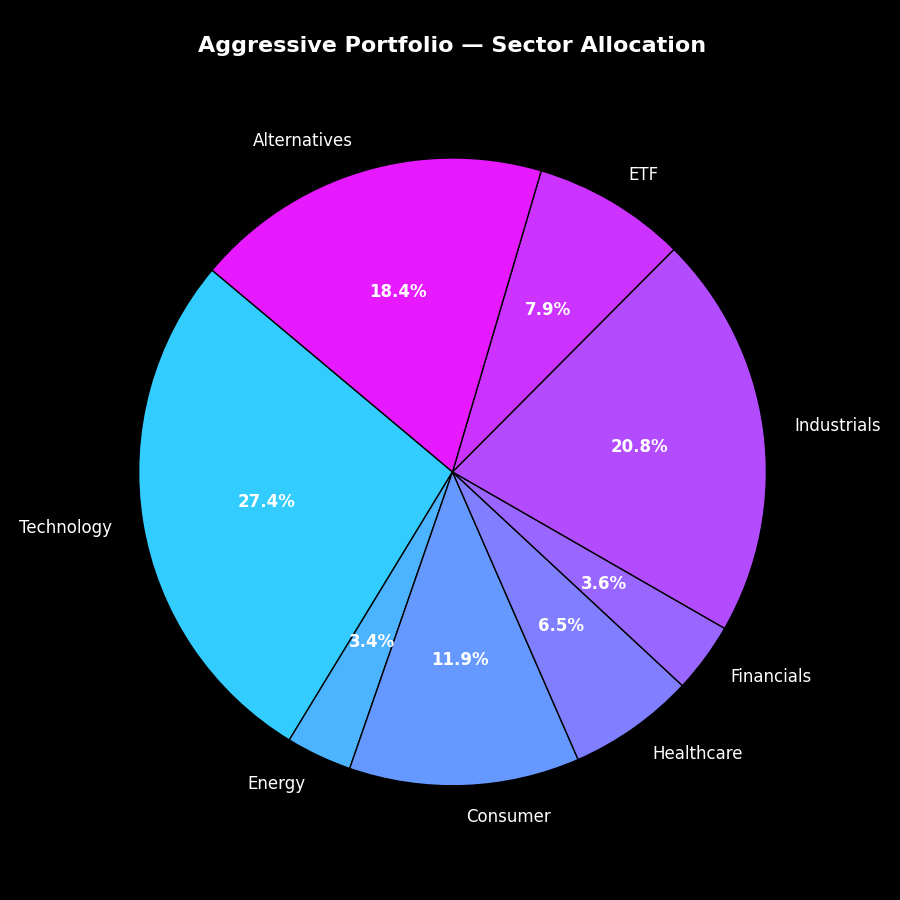
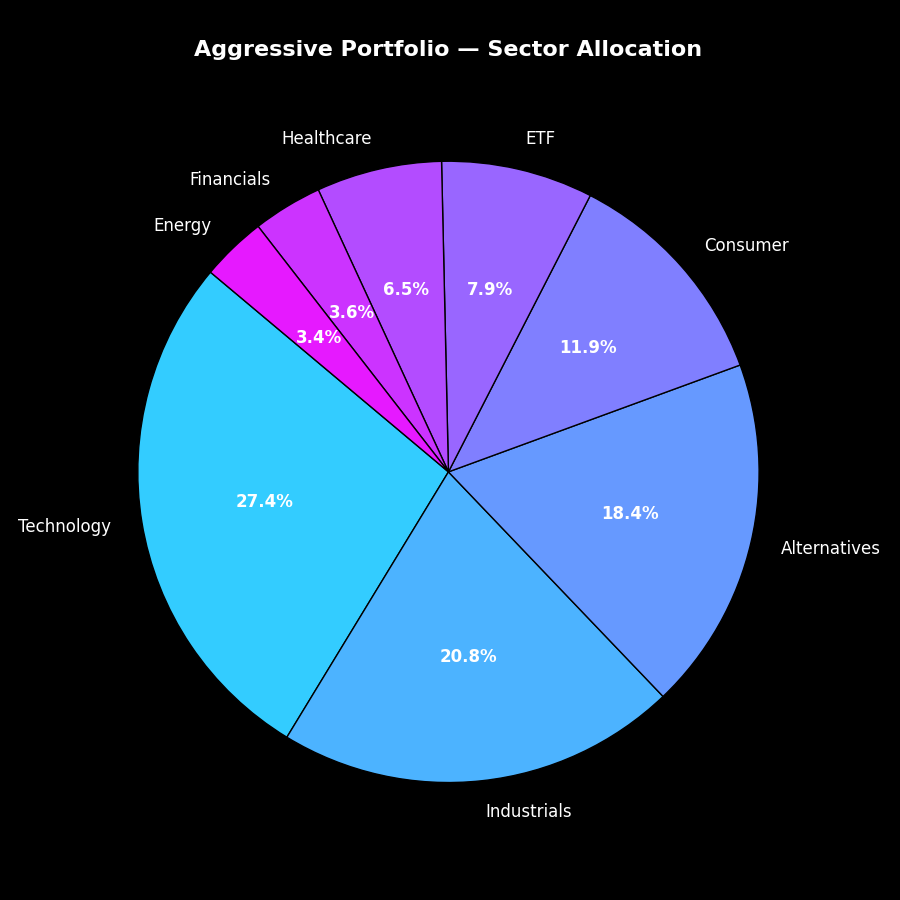
Adjusted spacing. Changed multiple variants' names for better readability

diff --git a/main.py b/main.py
@@ -7,7 +7,8 @@ import os
 os.makedirs("plots", exist_ok=True)
 plt.style.use('dark_background')
 
-# --- Tickers from diverse sectors ---
+# Tickers from diverse sectors
+
 tickers = [
     'AAPL', 'MSFT', 'GOOGL', 'NVDA',
     'XOM', 'CVX', 'KO', 'PG',
@@ -27,30 +28,32 @@ sector_map = {
     'GLD': 'Alternatives', 'BTC-USD': 'Alternatives'
 }
 
-# --- Download historical data ---
+# Download historical data
+
 batches = [tickers[i:i + 4] for i in range(0, len(tickers), 4)]
 all_data = []
 
 for batch in batches:
-    df = yf.download(batch, start='2019-01-01', end='2024-12-31', auto_adjust=True)
-    close_prices = df['Close'] if isinstance(df.columns, pd.MultiIndex) else pd.DataFrame(df['Close'])
+    batch_data = yf.download(batch, start='2019-01-01', end='2024-12-31', auto_adjust=True)
+    close_prices = batch_data['Close'] if isinstance(batch_data.columns, pd.MultiIndex) else pd.DataFrame(batch_data['Close'])
     all_data.append(close_prices)
 
-data = pd.concat(all_data, axis=1)
-data = data.ffill().dropna(axis=1, thresh=len(data) * 0.95)
+price_data = pd.concat(all_data, axis=1)
+price_data = price_data.ffill().dropna(axis=1, thresh=len(price_data) * 0.95)
 
-returns = data.pct_change().dropna()
+returns = price_data.pct_change().dropna()
 mean_returns = returns.mean() * 252
 cov_matrix = returns.cov() * 252
 
-# --- Correlation Heatmap ---
+# Correlation Heatmap
+
 correlation_matrix = returns.corr()
 
 plt.figure(figsize=(14, 12))
 sns.heatmap(
     correlation_matrix,
     annot=True,
-    cmap='coolwarm',  # diverging: blue = low correlation, red = high
+    cmap='coolwarm',
     fmt=".2f",
     linewidths=0.5,
     square=True,
@@ -64,51 +67,52 @@ plt.tight_layout()
 plt.savefig("plots/asset_correlation_heatmap_dark.png", facecolor='black')
 plt.show()
 
+# Define constraints
 
-# --- Define constraints ---
 constraints = {
     'unconstrained': {'asset_max': 1.00, 'sector_max': 1.00, 'alt_max': 1.00},
     'conservative': {'asset_max': 0.15, 'sector_max': 0.25, 'alt_max': 0.10},
     'aggressive': {'asset_max': 0.25, 'sector_max': 0.35, 'alt_max': 0.20}
 }
 
-# --- Efficient Frontier simulation ---
+# Efficient Frontier simulation
+
 num_portfolios = 10000
-results_all = {}
-weights_all = {}
+all_metrics_by_strategy = {}
+all_weights_by_strategy = {}
 np.random.seed(33)
 
 mean_arr = mean_returns.values
 cov_arr = cov_matrix.values
-asset_names = data.columns.tolist()
+asset_names = price_data.columns.tolist()
 
-for label, limit in constraints.items():
-    results = []
-    weights_record = []
+for strategy, constraint in constraints.items():
+    simulation_metrics = []
+    portfolio_weights = []
 
     for _ in range(num_portfolios):
         valid = False
         attempts = 0
 
         while not valid and attempts < 1000:
-            w = np.random.random(len(asset_names))
-            w /= w.sum()
-            w_series = pd.Series(w, index=asset_names)
+            random_weights = np.random.random(len(asset_names))
+            random_weights /= random_weights.sum()
+            weights_series = pd.Series(random_weights, index=asset_names)
 
-            if (w_series > limit['asset_max']).any():
+            if (weights_series > constraint['asset_max']).any():
                 attempts += 1
                 continue
 
-            sector_w = {}
-            for ticker, weight in w_series.items():
+            sector_weights = {}
+            for ticker, weight in weights_series.items():
                 sector = sector_map[ticker]
-                sector_w[sector] = sector_w.get(sector, 0) + weight
+                sector_weights[sector] = sector_weights.get(sector, 0) + weight
 
-            if any(val > limit['sector_max'] for val in sector_w.values()):
+            if any(val > constraint['sector_max'] for val in sector_weights.values()):
                 attempts += 1
                 continue
 
-            if sector_w.get('Alternatives', 0) > limit['alt_max']:
+            if sector_weights.get('Alternatives', 0) > constraint['alt_max']:
                 attempts += 1
                 continue
 
@@ -117,28 +121,29 @@ for label, limit in constraints.items():
         if not valid:
             continue
 
-        port_return = np.dot(w, mean_arr)
-        port_vol = np.sqrt(np.dot(w.T, np.dot(cov_arr, w)))
-        sharpe = port_return / port_vol
+        expected_return = np.dot(random_weights, mean_arr)
+        risk = np.sqrt(np.dot(random_weights.T, np.dot(cov_arr, random_weights)))
+        sharpe_ratio = expected_return / risk if risk > 0 else 0
 
-        results.append((port_return, port_vol, sharpe))
-        weights_record.append(w)
+        simulation_metrics.append((expected_return, risk, sharpe_ratio))
+        portfolio_weights.append(random_weights)
 
-    df = pd.DataFrame(results, columns=['Return', 'Volatility', 'Sharpe Ratio'])
-    w_df = pd.DataFrame(weights_record, columns=asset_names)
+    strategy_results_df = pd.DataFrame(simulation_metrics, columns=['Return', 'Volatility', 'Sharpe Ratio'])
+    portfolio_weights_df = pd.DataFrame(portfolio_weights, columns=asset_names)
 
-    results_all[label] = df
-    weights_all[label] = w_df
+    all_metrics_by_strategy[strategy] = strategy_results_df
+    all_weights_by_strategy[strategy] = portfolio_weights_df
 
-# --- Plot Efficient Frontier Comparison ---
+# Plot Efficient Frontier Comparison
+
 plt.figure(figsize=(12, 8))
 colors = {'unconstrained': '#00BFFF', 'conservative': '#8A2BE2', 'aggressive': '#7FFFD4'}
 
-for label, df in results_all.items():
-    plt.scatter(df['Volatility'], df['Return'], alpha=0.3, s=10, label=label.capitalize(), color=colors[label])
-    max_idx = df['Sharpe Ratio'].idxmax()
-    opt = df.loc[max_idx]
-    plt.scatter(opt['Volatility'], opt['Return'], c=colors[label], s=100, edgecolor='white', label=f"{label.capitalize()} Max Sharpe")
+for strategy, metrics_df in all_metrics_by_strategy.items():
+    plt.scatter(metrics_df['Volatility'], metrics_df['Return'], alpha=0.3, s=10, label=strategy.capitalize(), color=colors[strategy])
+    max_sharpe_idx = metrics_df['Sharpe Ratio'].idxmax()
+    max_sharpe_point = metrics_df.loc[max_sharpe_idx]
+    plt.scatter(max_sharpe_point['Volatility'], max_sharpe_point['Return'], c=colors[strategy], s=100, edgecolor='white', label=f"{strategy.capitalize()} Max Sharpe")
 
 plt.title("Efficient Frontier Comparison (Unconstrained vs Constrained)")
 plt.xlabel("Volatility (Risk)")
@@ -149,14 +154,17 @@ plt.tight_layout()
 plt.savefig("plots/frontier_comparison_dark.png")
 plt.show()
 
+# Pie Charts for Sector Allocation
 
-# --- Pie Charts for Sector Allocation ---
-for label in constraints:
-    opt_w = weights_all[label].iloc[results_all[label]['Sharpe Ratio'].idxmax()]
+for strategy in constraints:
+    optimal_weights = all_weights_by_strategy[strategy].iloc[all_metrics_by_strategy[strategy]['Sharpe Ratio'].idxmax()]
     sector_weights = {}
-    for asset, weight in opt_w.items():
+    for asset, weight in optimal_weights.items():
         sector = sector_map[asset]
         sector_weights[sector] = sector_weights.get(sector, 0) + weight
+
+    # Sort by weight (descending)
+    sector_weights = dict(sorted(sector_weights.items(), key=lambda x: x[1], reverse=True))
 
     plt.figure(figsize=(9, 9))
     color_palette = plt.cm.cool(np.linspace(0.2, 0.9, len(sector_weights)))
@@ -171,17 +179,17 @@ for label in constraints:
     )
 
     plt.setp(autotexts, size=12, weight="bold")
-    plt.title(f"{label.capitalize()} Portfolio — Sector Allocation", fontsize=16, weight='bold', color='white', pad=20)
+    plt.title(f"{strategy.capitalize()} Portfolio — Sector Allocation", fontsize=16, weight='bold', color='white', pad=20)
     plt.tight_layout()
-    plt.savefig(f"plots/{label}_sector_pie_dark.png", facecolor='black')
+    plt.savefig(f"plots/{strategy}_sector_pie_dark.png", facecolor='black')
     plt.show()
 
+# Side-by-side bar plot of weights
 
-# --- Side-by-side bar plot of weights ---
-top_weights = {label: weights_all[label].iloc[results_all[label]['Sharpe Ratio'].idxmax()] for label in constraints}
-weights_df = pd.DataFrame(top_weights)
+top_optimal_weights = {strategy: all_weights_by_strategy[strategy].iloc[all_metrics_by_strategy[strategy]['Sharpe Ratio'].idxmax()] for strategy in constraints}
+weights_comparison_df = pd.DataFrame(top_optimal_weights)
 
-weights_df.plot(kind='barh', figsize=(12, 10), color=[colors[col] for col in weights_df.columns])
+weights_comparison_df.plot(kind='barh', figsize=(12, 10), color=[colors[col] for col in weights_comparison_df.columns])
 plt.title("Optimal Portfolio Weights by Constraint")
 plt.xlabel("Weight")
 plt.grid(True, axis='x')
